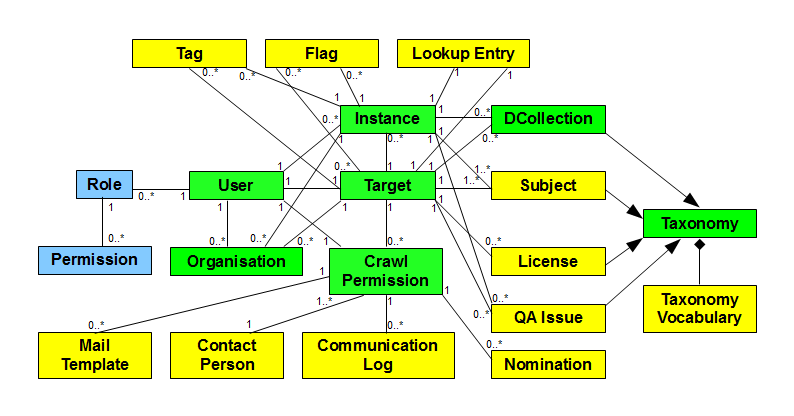
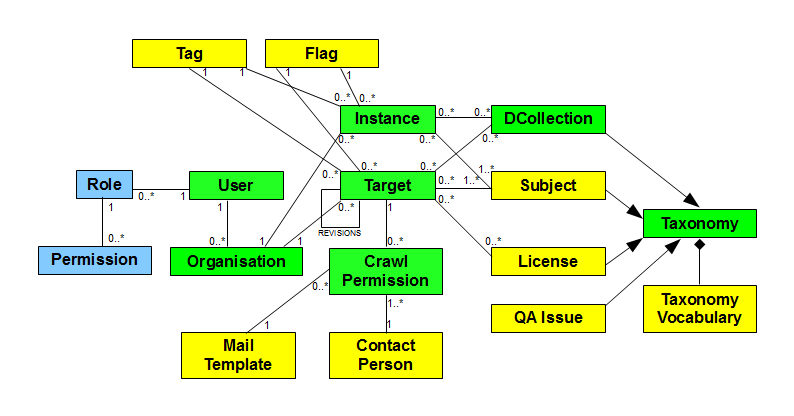
+ issue #136: implemented associations between Instance and Tag, Flag, Collection.

diff --git a/app/models/Instance.java b/app/models/Instance.java
@@ -58,6 +58,16 @@ public class Instance extends Model {
 	@JoinColumn(name="id_collection")
 	public DCollection collection_to_instance;
 	
+	//bi-directional many-to-one association to Flag
+	@ManyToOne
+	@JoinColumn(name="id_flag")
+	public Flag flag_to_instance;
+    
+	//bi-directional many-to-one association to Tag
+	@ManyToOne
+	@JoinColumn(name="id_tag")
+	public Tag tag_to_instance;
+    
     @Column(columnDefinition = "TEXT")
     public String value;
     @Column(columnDefinition = "TEXT")
@@ -1120,6 +1130,32 @@ public class Instance extends Model {
             Logger.info("Add instance to collection: " + collection.toString());
             this.collection_to_instance = collection;
 		} 
+    	
+    }
+	
+    /**
+     * This method updates foreign key mapping between an Instance and a Flag.
+     */
+    public void updateFlag() {
+		if (flags != null
+				&& flags.length() > 0) {
+			Flag flag = Flag.findByUrl(flags);
+//            Logger.info("Add instance to flag: " + flag.toString());
+            this.flag_to_instance = flag;
+		}
+    	
+    }
+	
+    /**
+     * This method updates foreign key mapping between an Instance and a Tag.
+     */
+    public void updateTag() {
+		if (tags != null
+				&& tags.length() > 0) {
+			Tag tag = Tag.findByUrl(tags);
+//            Logger.info("Add instance to tag: " + tag.toString());
+            this.tag_to_instance = tag;
+		}
     	
     }
 	

diff --git a/app/controllers/InstanceController.java b/app/controllers/InstanceController.java
@@ -188,6 +188,7 @@ public class InstanceController extends AbstractController {
             		}
                 }
             	newInstance.tags = resTags;
+        		newInstance.updateTag();
         	} else {
         		newInstance.tags = Const.NONE;
         	}
@@ -204,6 +205,7 @@ public class InstanceController extends AbstractController {
             		}
                 }
             	newInstance.flags = resFlags;
+        		newInstance.updateFlag();
         	} else {
         		newInstance.flags = Const.NONE;
         	}
@@ -472,6 +474,7 @@ public class InstanceController extends AbstractController {
 	            		}
 	                }
 	            	newInstance.tags = resTags;
+	        		newInstance.updateTag();
             	} else {
             		newInstance.tags = Const.NONE;
             	}
@@ -488,6 +491,7 @@ public class InstanceController extends AbstractController {
 	            		}
 	                }
 	            	newInstance.flags = resFlags;
+	        		newInstance.updateFlag();
             	} else {
             		newInstance.flags = Const.NONE;
             	}

diff --git a/app/uk/bl/db/DataImport.java b/app/uk/bl/db/DataImport.java
@@ -160,10 +160,14 @@ public enum DataImport {
 //                    Logger.info("Test instance test object: " + instance.toString());
 	                // Create association between Instance and Organisation
                     instance.updateOrganisation();
-                    // Create association between Target and DCollection
+                    // Create association between Instance and DCollection
                     instance.updateCollection();
-                    // Create association between Target and Subject (Taxonomy)
+                    // Create association between Instance and Subject (Taxonomy)
                     instance.updateSubject();
+                    // Create association between Instance and Flag
+                    instance.updateFlag();
+                    // Create association between Instance and Tag
+                    instance.updateTag();
         			Ebean.update(instance);
 	            }
                 // Create association between Permission and Role

diff --git a/app/models/Flag.java b/app/models/Flag.java
@@ -47,6 +47,18 @@ public class Flag extends Model
     	this.targets = targets;
     }    
     	
+    //bi-directional one-to-many association to Instance
+    @OneToMany(mappedBy="flag_to_instance", cascade=CascadeType.PERSIST)
+    private List<Instance> instances = new ArrayList<Instance>();
+     
+    public List<Instance> getInstances() {
+    	return this.instances;
+    }
+    
+    public void setInstances(List<Instance> instances) {
+    	this.instances = instances;
+    }    
+    
     /**
      * This field with prefix "act-" builds an unique identifier in W3ACT database.
      */

diff --git a/app/models/Tag.java b/app/models/Tag.java
@@ -47,6 +47,18 @@ public class Tag extends Model
     	this.targets = targets;
     }    
     
+    //bi-directional one-to-many association to Instance
+    @OneToMany(mappedBy="tag_to_instance", cascade=CascadeType.PERSIST)
+    private List<Instance> instances = new ArrayList<Instance>();
+     
+    public List<Instance> getInstances() {
+    	return this.instances;
+    }
+    
+    public void setInstances(List<Instance> instances) {
+    	this.instances = instances;
+    }    
+    
     /**
      * This field with prefix "act-" builds an unique identifier in W3ACT database.
      */
